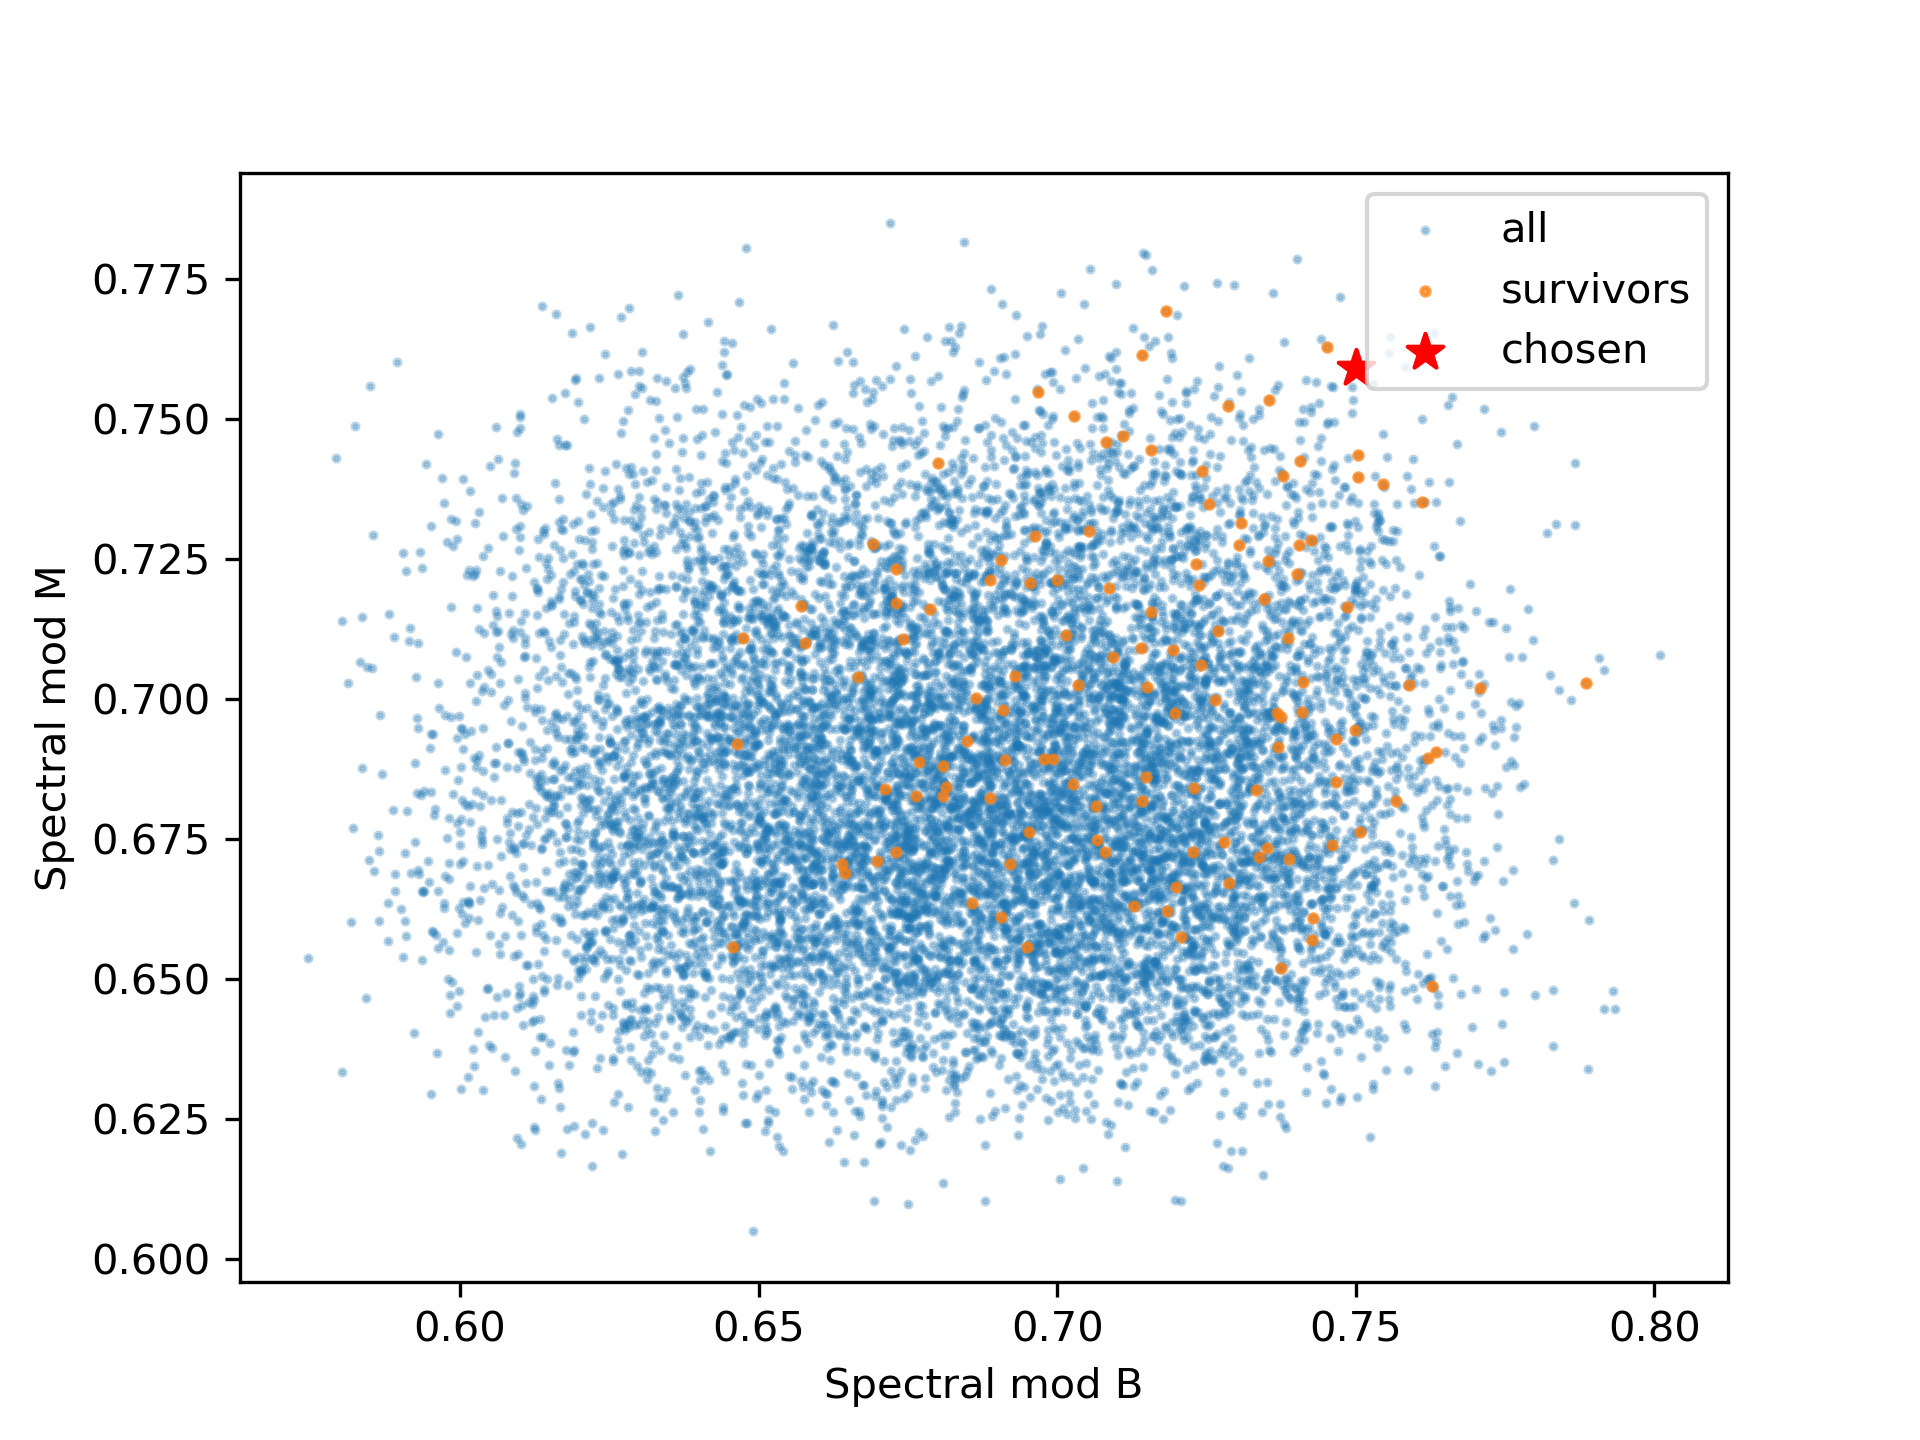
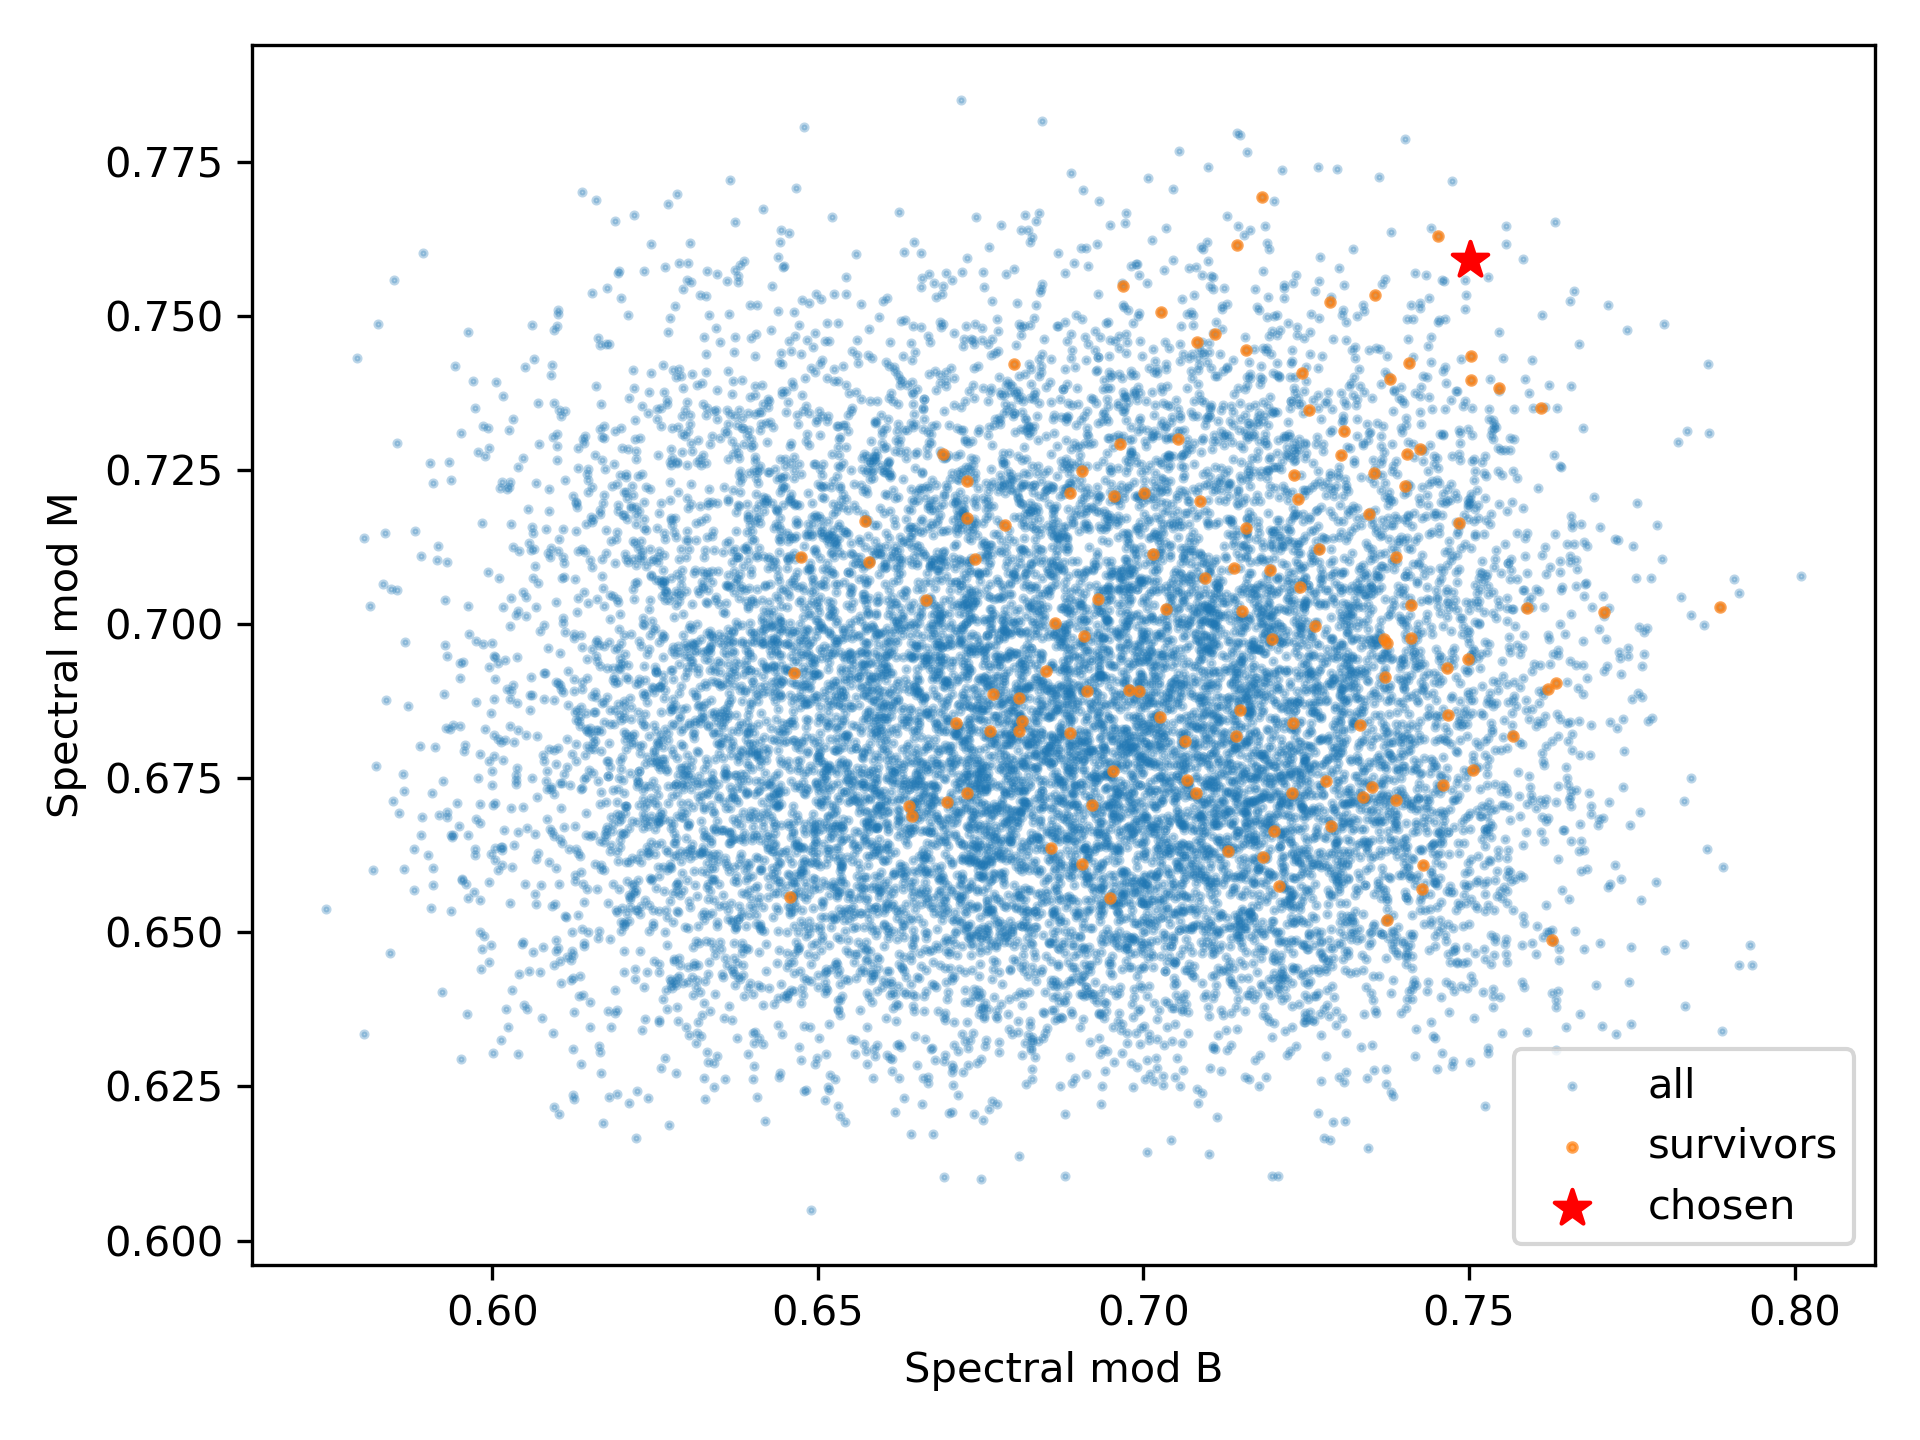
Update output of candidate selection script

Changed region(s): [[0.0, 0.0938, 0.9688, 0.9688], [0.9375, 0.7188, 0.9688, 0.75], [0.125, 0.0312, 0.1562, 0.0625]]

diff --git a/choose-candidate.py b/choose-candidate.py
@@ -10,20 +10,23 @@ data["min_fm"] = data[["MinFM mod B", "MinFM mod M"]].min(axis=1)
 data["geom_mean"] = (data["Spectral mod B"] * data["Spectral mod M"]) ** 0.5
 
 threshold = data["min_fm"].quantile(0.99)
-survivors = data.loc[data["min_fm"] >= threshold].sort_values(by="geom_mean", ascending=False)
-chosen = survivors.iloc[0]
+survivors = data.loc[data["min_fm"] >= threshold]
+chosen = survivors.loc[survivors["geom_mean"].idxmax()]
 
+print(survivors.describe())
+print()
 print(chosen)
 
 for name, x_col, y_col in [
-    ("harmonic", "Spectral mod B", "Spectral mod M"),
-    ("min_fm", "MinFM mod B", "MinFM mod M"),
+  ("harmonic", "Spectral mod B", "Spectral mod M"),
+  ("min_fm", "MinFM mod B", "MinFM mod M"),
 ]:
-    fig, ax = plt.subplots()
-    ax.scatter(data[x_col], data[y_col], s=2, alpha=0.3, label="all")
-    ax.scatter(survivors[x_col], survivors[y_col], s=4, alpha=0.7, label="survivors")
-    ax.scatter([chosen[x_col]], [chosen[y_col]], s=80, marker="*", c="red", label="chosen")
-    ax.set_xlabel(x_col)
-    ax.set_ylabel(y_col)
-    ax.legend()
-    fig.savefig(f"charts/{name}.png", dpi=300)
+  fig, ax = plt.subplots()
+  ax.scatter(data[x_col], data[y_col], s=2, alpha=0.3, label="all")
+  ax.scatter(survivors[x_col], survivors[y_col], s=4, alpha=0.7, label="survivors")
+  ax.scatter([chosen[x_col]], [chosen[y_col]], s=80, marker="*", c="red", label="chosen")
+  ax.set_xlabel(x_col)
+  ax.set_ylabel(y_col)
+  ax.legend()
+  fig.tight_layout()
+  fig.savefig(f"charts/{name}.png", dpi=300)
